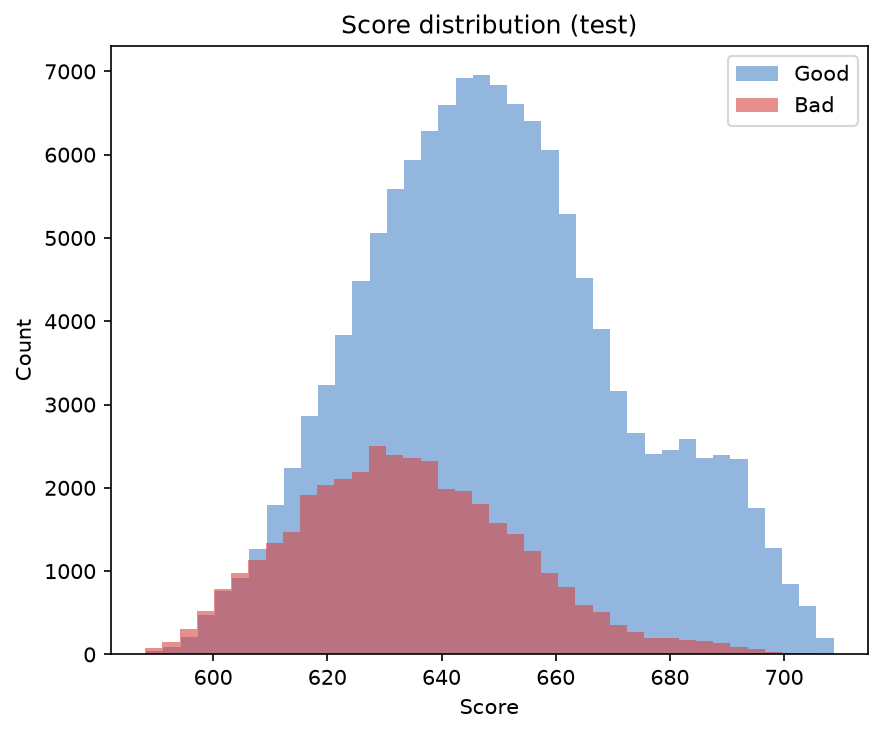
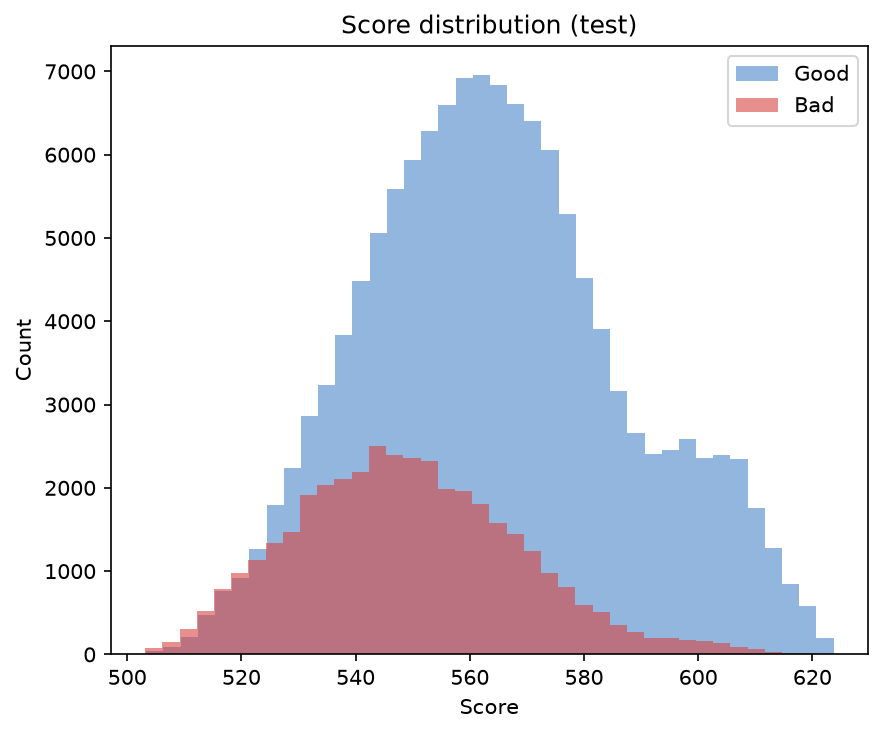
fix: 评分卡补上基准 odds (base_odds=19:1)

diff --git a/src/validate.py b/src/validate.py
@@ -48,14 +48,7 @@ def psi(expected, actual, bins=10) -> float:
 def load_data():
     sc = {n: pd.read_csv(SCORECARD_DIR / f"{n}_scores.csv") for n in ["train", "test", "oot"]}
     xgb = {n: pd.read_csv(SCORECARD_DIR / f"{n}_xgb.csv") for n in ["train", "test", "oot"]}
-    with open(SCORECARD_DIR / "scorecard_meta.json") as f:
-        meta = json.load(f)
-    return sc, xgb, meta
-
-
-def score_to_prob(score, meta) -> np.ndarray:
-    """把分数反解回违约概率：prob = sigmoid((base_score - score) / factor)。"""
-    return 1 / (1 + np.exp(-(meta["base_score"] - score) / meta["factor"]))
+    return sc, xgb
 
 
 def plot_roc(sc, xgb, save_path):
@@ -109,10 +102,9 @@ def plot_score_distribution(sc, save_path):
     plt.close(fig)
 
 
-def plot_calibration(sc, meta, save_path):
+def plot_calibration(sc, save_path):
     fig, ax = plt.subplots(figsize=(6, 5))
-    prob = score_to_prob(sc["test"]["score"].to_numpy(), meta)
-    prob_true, prob_pred = calibration_curve(sc["test"]["bad"], prob, n_bins=10)
+    prob_true, prob_pred = calibration_curve(sc["test"]["bad"], sc["test"]["prob"], n_bins=10)
     ax.plot(prob_pred, prob_true, marker="o", label="Scorecard")
     ax.plot([0, 1], [0, 1], "k--", alpha=0.5)
     ax.set_xlabel("Mean predicted probability")
@@ -125,7 +117,7 @@ def plot_calibration(sc, meta, save_path):
 
 
 def main() -> None:
-    sc, xgb, meta = load_data()
+    sc, xgb = load_data()
     VALIDATE_DIR.mkdir(parents=True, exist_ok=True)
 
     rows = []
@@ -153,7 +145,7 @@ def main() -> None:
     plot_roc(sc, xgb, VALIDATE_DIR / "roc_curve.png")
     plot_ks_curve(sc, xgb, VALIDATE_DIR / "ks_curve.png")
     plot_score_distribution(sc, VALIDATE_DIR / "score_distribution.png")
-    plot_calibration(sc, meta, VALIDATE_DIR / "calibration.png")
+    plot_calibration(sc, VALIDATE_DIR / "calibration.png")
 
     metrics.to_csv(VALIDATE_DIR / "metrics.csv", index=False)
     with open(VALIDATE_DIR / "psi.json", "w") as f:

diff --git a/src/scorecard.py b/src/scorecard.py
@@ -18,7 +18,7 @@ from sklearn.linear_model import LogisticRegression
 
 sys.path.insert(0, str(Path(__file__).resolve().parent))
 
-from config import (PROCESSED_DIR, WOE_DIR, SCORECARD_DIR, BASE_SCORE, PDO, SEED)
+from config import (PROCESSED_DIR, WOE_DIR, SCORECARD_DIR, BASE_SCORE, PDO, BASE_ODDS, SEED)
 from woe import WoEBinner  # 反序列化分箱器时需要该类可用
 
 
@@ -57,13 +57,13 @@ def main() -> None:
     lr = LogisticRegression(C=np.inf, solver="lbfgs", max_iter=2000, random_state=SEED)
     lr.fit(Xw, y)
 
-    # PDO 缩放：score = base_score - factor * log_odds_bad
+    # PDO 缩放：score = base_score + factor * ln(odds_good / BASE_ODDS)
     factor = PDO / np.log(2)
     beta0 = lr.intercept_[0]
     coefs = dict(zip(selected, lr.coef_[0]))
 
     # 评分卡表：base points + 每个分箱的分数
-    base_points = BASE_SCORE - factor * beta0
+    base_points = BASE_SCORE - factor * beta0 - factor * np.log(BASE_ODDS)
     rows = []
     for feat in selected:
         beta = coefs[feat]
@@ -90,8 +90,9 @@ def main() -> None:
     for name in ["train", "test", "oot"]:
         df = pd.read_csv(PROCESSED_DIR / f"{name}.csv")
         log_odds = lr.decision_function(binner.transform(df[selected]))
-        df["score"] = BASE_SCORE - factor * log_odds
-        df[["score", "bad"]].to_csv(SCORECARD_DIR / f"{name}_scores.csv", index=False)
+        df["score"] = BASE_SCORE - factor * (log_odds + np.log(BASE_ODDS))
+        df["prob"] = 1 / (1 + np.exp(-log_odds))
+        df[["score", "prob", "bad"]].to_csv(SCORECARD_DIR / f"{name}_scores.csv", index=False)
         print(f"\n{name}: 样本 {len(df):,}，分数均值 {df['score'].mean():.1f}，"
               f"分数范围 [{df['score'].min():.0f}, {df['score'].max():.0f}]")
 

diff --git a/src/config.py b/src/config.py
@@ -39,6 +39,7 @@ TEST_END = "2017-12"
 # 评分卡参数（业界标准：base 600 分，每 20 分 odds 翻倍）
 BASE_SCORE = 600
 PDO = 20
+BASE_ODDS = 19   # 基准 odds（好:坏），base_score 对应 19:1，即坏账率约 5%
 
 # 变量筛选阈值
 IV_MIN = 0.02   # IV 低于该值的变量剔除

diff --git a/output/report.md b/output/report.md
@@ -38,16 +38,16 @@ Full WoE table: `output/woe/woe_table.csv` · plot: `output/woe/woe_plot.png`.
 
 ## 3. Scorecard — `src/scorecard.py`
 
-Logistic regression on WoE features, PDO scaling (base score 600, PDO 20).
+Logistic regression on WoE features, PDO scaling (base score 600, PDO 20, base odds 19:1).
 
-- Base points: **640.6**
-- Score range: [588, 712]
+- Base points: **555.6**
+- Score range: [503, 627]
 
 | Dataset | Samples | Mean score |
 |---|---|---|
-| train | 1,122,460 | 645.8 |
-| test | 169,321 | 646.0 |
-| oot | 56,318 | 649.1 |
+| train | 1,122,460 | 560.8 |
+| test | 169,321 | 561.1 |
+| oot | 56,318 | 564.2 |
 
 Full scorecard table: `output/scorecard/scorecard.csv`.
 
